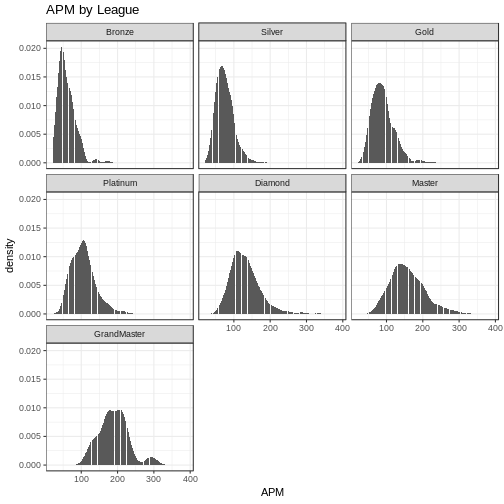
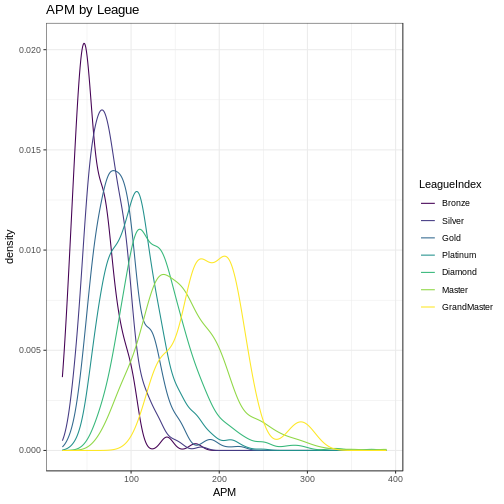
Changed to geom_freqpoly

diff --git a/_posts/2019-01-20-analysis-skillcraft-kaggle.md b/_posts/2019-01-20-analysis-skillcraft-kaggle.md
@@ -498,28 +498,25 @@ Until then, farewell!
 ## [1] stats     graphics  grDevices utils     datasets  base     
 ## 
 ## other attached packages:
-##  [1] randomForest_4.6-14 bindrcpp_0.2.2      reshape2_1.4.3     
-##  [4] forcats_0.3.0       stringr_1.3.1       dplyr_0.7.8        
-##  [7] purrr_0.2.5         readr_1.3.1         tidyr_0.8.2        
-## [10] tibble_2.0.1        ggplot2_3.1.0       tidyverse_1.2.1    
-## [13] knitr_1.21         
+##  [1] bindrcpp_0.2.2  reshape2_1.4.3  forcats_0.3.0   stringr_1.3.1  
+##  [5] dplyr_0.7.8     purrr_0.2.5     readr_1.3.1     tidyr_0.8.2    
+##  [9] tibble_2.0.1    ggplot2_3.1.0   tidyverse_1.2.1 knitr_1.21     
 ## 
 ## loaded via a namespace (and not attached):
-##  [1] tidyselect_0.2.5  xfun_0.4          haven_2.0.0      
-##  [4] lattice_0.20-35   colorspace_1.4-0  generics_0.0.2   
-##  [7] viridisLite_0.3.0 utf8_1.1.4        rlang_0.3.1      
-## [10] pillar_1.3.1      glue_1.3.0        withr_2.1.2      
-## [13] modelr_0.1.2      readxl_1.2.0      bindr_0.1.1      
-## [16] plyr_1.8.4        munsell_0.5.0     gtable_0.2.0     
-## [19] cellranger_1.1.0  rvest_0.3.2       codetools_0.2-15 
-## [22] evaluate_0.12     labeling_0.3      fansi_0.4.0      
-## [25] highr_0.7         broom_0.5.1       methods_3.4.4    
-## [28] Rcpp_1.0.0        scales_1.0.0      backports_1.1.3  
-## [31] jsonlite_1.6      hms_0.4.2         digest_0.6.18    
-## [34] stringi_1.2.4     grid_3.4.4        cli_1.0.1        
-## [37] tools_3.4.4       magrittr_1.5      lazyeval_0.2.1   
-## [40] crayon_1.3.4      pkgconfig_2.0.2   xml2_1.2.0       
-## [43] lubridate_1.7.4   assertthat_0.2.0  httr_1.4.0       
-## [46] rstudioapi_0.9.0  R6_2.3.0          nlme_3.1-131     
-## [49] compiler_3.4.4
+##  [1] Rcpp_1.0.0        highr_0.7         cellranger_1.1.0 
+##  [4] pillar_1.3.1      compiler_3.4.4    plyr_1.8.4       
+##  [7] bindr_0.1.1       methods_3.4.4     tools_3.4.4      
+## [10] digest_0.6.18     viridisLite_0.3.0 lubridate_1.7.4  
+## [13] jsonlite_1.6      evaluate_0.12     nlme_3.1-131     
+## [16] gtable_0.2.0      lattice_0.20-35   pkgconfig_2.0.2  
+## [19] rlang_0.3.1       cli_1.0.1         rstudioapi_0.9.0 
+## [22] haven_2.0.0       xfun_0.4          withr_2.1.2      
+## [25] xml2_1.2.0        httr_1.4.0        hms_0.4.2        
+## [28] generics_0.0.2    grid_3.4.4        tidyselect_0.2.5 
+## [31] glue_1.3.0        R6_2.3.0          fansi_0.4.0      
+## [34] readxl_1.2.0      modelr_0.1.2      magrittr_1.5     
+## [37] backports_1.1.3   scales_1.0.0      rvest_0.3.2      
+## [40] assertthat_0.2.0  colorspace_1.4-0  labeling_0.3     
+## [43] utf8_1.1.4        stringi_1.2.4     lazyeval_0.2.1   
+## [46] munsell_0.5.0     broom_0.5.1       crayon_1.3.4
 {% endhighlight %}
